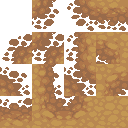
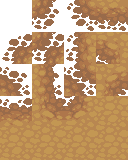
feat(client): Vary LPC ground interiors instead of repeating one cell
An LPC terrain ships several full-coverage interiors — one flat and a few
with scattered detail — and readLpcSheet's first-one-wins dedupe kept only
the first. For Grass that tile is a single RGB value across all 32x32, so
every tile of open field drew the same solid green rect and the world read
as a green screen. The edge art was never the problem; the interior was.

The import now keeps every fill and lays them out past the corner block,
one row per tone and one column per detail. Both counts are readable off
the PNG's dimensions, so the renderer needs no manifest and the layout
survives re-importing a different mapping.

Splitting tone from detail is what earns the two rows: they want different
noise. Tone should hold across a patch, the way the baked variant art
already behaves. Detail must not — a detail cell held across a patch is
its tufts repeating on a 32px lattice, which reads as wallpaper — so
pickTileVariant takes a scale and TILE_DETAIL_SCALE switches it nearly
every tile. Tone and detail also read separate seeds; sharing one would
tie a tile's detail to its shade and collapse the two fields back into one.

Grass maps to Grass + Dark Grass, which is where its tonal range comes
back from. The "no other material baked into the edge" rule that picked
Trans Dirt over Earth doesn't constrain the extra terrains: a fill is an
interior and carries no edge at all.

diff --git a/tools/lpc-import.ts b/tools/lpc-import.ts
@@ -2,10 +2,22 @@
 //
 //   npx tsx tools/lpc-import.ts --src=~/Downloads/LPC_Terrain
 //
-// Emits one 4x4 atlas per mapped tile id into client/public/tiles/lpc/, where
-// cell (mask >> 2, mask & 3) is that material's art for corner mask `mask` —
-// the same masks pickTileLayers produces, so the renderer indexes an atlas the
-// same way it indexes a procedural mask.
+// Emits one atlas per mapped tile id into client/public/tiles/lpc/. The first
+// 4x4 block is the corner set: cell (mask >> 2, mask & 3) is that material's
+// art for corner mask `mask` — the same masks pickTileLayers produces, so the
+// renderer indexes an atlas the same way it indexes a procedural mask.
+//
+// Rows past the fourth are *fills*: alternative full-coverage interiors, one
+// row per tone and one cell per detail within that tone. A terrain ships one
+// flat fill and a few with scattered detail; importing only the first (which
+// for Grass is a single RGB value across all 32x32) is what made an open field
+// read as one solid colour.
+//
+// Splitting tone across rows and detail across columns is what lets the
+// renderer pick them off *different* noise fields — tone wants calm multi-tile
+// patches, detail wants to switch almost every tile or its cell repeats on a
+// visible 32px lattice. Both counts have to be readable from the PNG alone, so
+// they get one dimension each: tones = height - 4, details = width.
 //
 // This is the authored-art half of the seam experiment: the sheet ships 13 of
 // the 16 corner shapes drawn by hand over transparency, which is precisely the
@@ -25,16 +37,22 @@ import { fileURLToPath } from 'node:url';
 import { PNG } from 'pngjs';
 import { blitTile, readLpcSheet, MASK_DIAG_NE_SW, MASK_DIAG_NW_SE, TILE_PX } from './lib/lpc-terrain.ts';
 
-// Our tile id → LPC terrain name. Chosen for the starting village, whose ground
-// is grass/dirt with a little stone. Terrains whose edge art has another
-// material baked into it are avoided: "Earth" is drawn with a grass fringe, so
-// it only composites correctly over grass, while "Trans Dirt" has a generic
-// pebbled edge that works over anything.
-const MAPPING: Record<string, string> = {
-  sand: 'Sand',
-  dirt: 'Trans Dirt',
-  grass: 'Grass',
-  stone_floor: 'Brick Road',
+// Our tile id → LPC terrain names. The first supplies the corner art and the
+// first tone; any others contribute tone rows only, which is how a material
+// gets tonal variation without anyone drawing new art — LPC already ships
+// several tones of the same ground as separate terrains.
+//
+// Chosen for the starting village, whose ground is grass/dirt with a little
+// stone. Terrains whose edge art has another material baked into it are
+// avoided: "Earth" is drawn with a grass fringe, so it only composites
+// correctly over grass, while "Trans Dirt" has a generic pebbled edge that
+// works over anything. That constraint doesn't apply to the extra tones —
+// fills are interiors, and carry no edge at all.
+const MAPPING: Record<string, string[]> = {
+  sand: ['Sand'],
+  dirt: ['Trans Dirt'],
+  grass: ['Grass', 'Dark Grass'],
+  stone_floor: ['Brick Road'],
 };
 
 const __dirname = dirname(fileURLToPath(import.meta.url));
@@ -48,16 +66,31 @@ const src = srcArg.startsWith('~') ? join(homedir(), srcArg.slice(1)) : srcArg;
 const sheet = readLpcSheet(join(src, 'Terrain.tsx'), join(src, 'terrain.png'));
 mkdirSync(OUT_DIR, { recursive: true });
 
-for (const [tileId, terrainName] of Object.entries(MAPPING)) {
-  const terrain = sheet.terrains.find(t => t.name === terrainName);
-  if (!terrain) throw new Error(`no LPC terrain named "${terrainName}"`);
+for (const [tileId, terrainNames] of Object.entries(MAPPING)) {
+  const tones = terrainNames.map(name => {
+    const t = sheet.terrains.find(x => x.name === name);
+    if (!t) throw new Error(`no LPC terrain named "${name}"`);
+    if (t.fills.length === 0) throw new Error(`LPC terrain "${name}" ships no full-coverage fill`);
+    return t;
+  });
+  const terrain = tones[0]!;
 
-  const atlas = new PNG({ width: TILE_PX * 4, height: TILE_PX * 4 });
+  // Every fill row is the same width, so a tone with fewer fills than the
+  // widest repeats its own — the renderer can then index any column of any row
+  // without knowing how many distinct fills that particular tone has.
+  const cols = Math.max(4, ...tones.map(t => t.fills.length));
+  const atlas = new PNG({ width: TILE_PX * cols, height: TILE_PX * (4 + tones.length) });
   atlas.data.fill(0);
   const put = (mask: number, tileIndex: number) =>
     blitTile(sheet, tileIndex, atlas, (mask & 3) * TILE_PX, (mask >> 2) * TILE_PX);
 
   for (const [mask, tileIndex] of terrain.byMask) put(mask, tileIndex);
+
+  tones.forEach((tone, row) => {
+    for (let c = 0; c < cols; c++) {
+      blitTile(sheet, tone.fills[c % tone.fills.length]!, atlas, c * TILE_PX, (4 + row) * TILE_PX);
+    }
+  });
 
   // The two diagonal-only masks: the sheet has no art for a material touching
   // a tile at opposite corners only, so stack the two single-corner tiles.
@@ -72,7 +105,7 @@ for (const [tileId, terrainName] of Object.entries(MAPPING)) {
 
   const out = join(OUT_DIR, `${tileId}.png`);
   writeFileSync(out, PNG.sync.write(atlas));
-  console.log(`${tileId.padEnd(12)} ← ${terrainName.padEnd(12)} ${terrain.byMask.size} authored + 2 assembled → ${out}`);
+  console.log(`${tileId.padEnd(12)} ← ${terrainNames.join(' + ').padEnd(20)} ${terrain.byMask.size} authored + 2 assembled, ${tones.length}×${cols} fills → ${out}`);
 }
 
 const attribution = join(src, 'Attribution.txt');

diff --git a/client/src/game.ts b/client/src/game.ts
@@ -1,7 +1,7 @@
 import { state } from './state.ts';
 import { ARMOR_SLOTS, BLOCKING_TILES, EQUIPMENT_SLOTS, SCALING_COEFFS, ABILITY_SLOTS, UNARMED_ATTACK_ID, WEAPON_ATTACK_ID, PLAYER_BASE_ACT_TICKS, TICK_MS, actTicks, resolveHotbar, xpForNext } from '../../shared/constants.ts';
-import { MASK_FULL, buildSpriteColorMap, buildTileColorMap, makeTileLayerBuffer, pickSeamTile, pickTileLayers, pickTileVariant } from '../../shared/tileset.ts';
-import { getLpcAtlas, getMaskedTile, lpcCell } from './tileBlend.ts';
+import { MASK_FULL, TILE_DETAIL_SCALE, buildSpriteColorMap, buildTileColorMap, makeTileLayerBuffer, pickSeamTile, pickTileLayers, pickTileVariant } from '../../shared/tileset.ts';
+import { getLpcAtlas, getMaskedTile, lpcCell, lpcFillCell, lpcFillCounts } from './tileBlend.ts';
 import { renderAbilityIcon } from '../../shared/abilityIcon.ts';
 import { rarityColor } from '../../shared/itemVisuals.ts';
 import { getPlayerSprite, whenLayerLoads } from './playerSprite.ts';
@@ -3856,13 +3856,32 @@ function drawTile(px: number, py: number, color: string, spriteId?: string | nul
  *  the whole tile — filling a masked layer's rect with colour would paint over
  *  the corners it did *not* win, so a partial layer is skipped instead and the
  *  material below simply shows through until the art loads. */
+/** The atlas rect for a corner-blended tile: the mask's cell, except for a
+ *  full-coverage tile, which picks among the material's interiors. */
+function fillCell(
+  atlas: HTMLImageElement, tile: string, x: number, y: number, mask: number,
+): [number, number, number, number] {
+  const [tones, details] = lpcFillCounts(atlas);
+  if (mask !== MASK_FULL || tones < 1) return lpcCell(mask);
+  // Distinct ids so the two picks read distinct noise: sharing one would tie a
+  // tile's detail to its tone and collapse the two fields back into one.
+  const tone = pickTileVariant(`${tile}~tone`, x, y, tones);
+  const detail = pickTileVariant(`${tile}~detail`, x, y, details, undefined, TILE_DETAIL_SCALE);
+  return lpcFillCell(tone, detail);
+}
+
 function drawTileLayer(
   px: number, py: number, x: number, y: number, ts: Tileset, tile: string, mask: number,
 ): void {
   if (blendMode === 'lpc') {
     const atlas = getLpcAtlas(tile);
     if (atlas) {
-      const [sx, sy, sw, sh] = lpcCell(mask);
+      // A tile's interior is the same art everywhere, so an open field is one
+      // repeated cell unless it varies. Tone and detail come off separate
+      // noise fields at separate scales: a shade of grass should hold for a
+      // patch, while which cell's tufts get drawn should change nearly every
+      // tile or the tufts line up on a 32px grid and read as wallpaper.
+      const [sx, sy, sw, sh] = fillCell(atlas, tile, x, y, mask);
       ctx.drawImage(atlas, sx, sy, sw, sh, px, py, TILE, TILE);
       return;
     }

diff --git a/shared/tileset.ts b/shared/tileset.ts
@@ -30,6 +30,14 @@ const TILE_VARIANT_SALT = 0x7a11e;
 // varies. Bigger = calmer/larger patches; smaller = more frequent switching.
 const TILE_VARIANT_PATCH_SCALE = 8;
 
+// Scale for variants that differ in *detail* rather than in tone — LPC's fill
+// tiles, which are the same green with tufts scattered differently. Patching
+// those is wrong: a patch of one detail tile is that tile's tufts repeating on
+// a 32px lattice, which reads as wallpaper. Near-per-tile switching breaks the
+// alignment up and costs nothing in coherence, because tiles that match in
+// tone have no patch edge to see.
+export const TILE_DETAIL_SCALE = 1.4;
+
 // tileId → derived variant seed. Tile ids are a small fixed vocabulary.
 const variantSeeds = new Map<string, number>();
 
@@ -42,9 +50,13 @@ const variantSeeds = new Map<string, number>();
  *  of noise lands on — e.g. make the busiest/most-distinctive variant rarer
  *  than the calm default — without reintroducing per-tile noise, since it's
  *  just a non-uniform split of the same smooth noise range. Omitted or
- *  mismatched length falls back to a uniform split. */
+ *  mismatched length falls back to a uniform split.
+ *
+ *  `scale` is the feature size of the noise; pass TILE_DETAIL_SCALE for
+ *  variants that differ only in detail. */
 export function pickTileVariant(
   tileId: string, x: number, y: number, variantCount: number, weights?: number[],
+  scale: number = TILE_VARIANT_PATCH_SCALE,
 ): number {
   if (variantCount <= 1) return 0;
   // Memoized: this is called for every visible tile every frame, and hashing
@@ -54,7 +66,7 @@ export function pickTileVariant(
     seed = (TILE_VARIANT_SALT ^ hashString(tileId)) >>> 0;
     variantSeeds.set(tileId, seed);
   }
-  const n = valueNoise(x, y, TILE_VARIANT_PATCH_SCALE, seed); // smooth [0, 1)
+  const n = valueNoise(x, y, scale, seed); // smooth [0, 1)
 
   if (!weights || weights.length !== variantCount) {
     return Math.min(variantCount - 1, Math.floor(n * variantCount));

diff --git a/tools/lib/lpc-terrain.ts b/tools/lib/lpc-terrain.ts
@@ -15,6 +15,7 @@ import { PNG } from 'pngjs';
 export const TILE_PX = 32;
 
 /** Corner bits, matching shared/tileset.ts: NW=1, NE=2, SE=4, SW=8. */
+export const MASK_FULL = 1 | 2 | 4 | 8;
 export const MASK_DIAG_NW_SE = 1 | 4;
 export const MASK_DIAG_NE_SW = 2 | 8;
 
@@ -22,6 +23,12 @@ export interface LpcTerrain {
   name: string;
   /** corner mask → tile index in the sheet (row-major, 32 columns). */
   byMask: Map<number, number>;
+  /** Every full-coverage tile the terrain ships, in sheet order. These are a
+   *  material's *interior* — no edge art — so they are interchangeable, and a
+   *  terrain ships several: one flat and a few with scattered detail. Keeping
+   *  only the first (as byMask does) is what made an open field of grass a
+   *  single repeated colour. */
+  fills: number[];
 }
 
 export interface LpcSheet {
@@ -36,7 +43,7 @@ export function readLpcSheet(tsxPath: string, pngPath: string): LpcSheet {
   const cols = Math.floor(png.width / TILE_PX);
 
   const terrains: LpcTerrain[] = [...xml.matchAll(/<terrain\s+name="([^"]+)"/g)]
-    .map(m => ({ name: m[1]!, byMask: new Map<number, number>() }));
+    .map(m => ({ name: m[1]!, byMask: new Map<number, number>(), fills: [] }));
 
   for (const m of xml.matchAll(/<tile\s+id="(\d+)"\s+terrain="([^"]*)"\s*\/>/g)) {
     const id = Number(m[1]);
@@ -53,6 +60,7 @@ export function readLpcSheet(tsxPath: string, pngPath: string): LpcSheet {
     // First one wins: a few terrains list the same corner shape twice (recolour
     // rows), and taking the earliest keeps a terrain's tiles contiguous.
     if (!terrain.byMask.has(mask)) terrain.byMask.set(mask, id);
+    if (mask === MASK_FULL) terrain.fills.push(id);
   }
   return { png, cols, terrains };
 }

diff --git a/tools/tile-blend-compare.ts b/tools/tile-blend-compare.ts
@@ -20,7 +20,8 @@ import { join, dirname } from 'node:path';
 import { fileURLToPath } from 'node:url';
 import { PNG } from 'pngjs';
 import {
-  MASK_FULL, cornerMaskAlpha, makeTileLayerBuffer, pickSeamTile, pickTileLayers, pickTileVariant,
+  MASK_FULL, TILE_DETAIL_SCALE, cornerMaskAlpha, makeTileLayerBuffer, pickSeamTile, pickTileLayers,
+  pickTileVariant,
 } from '../shared/tileset.ts';
 import { deriveSeeds, wildTileAt } from '../shared/worldgen/field.ts';
 import { BLOCKING_TILES } from '../shared/constants.ts';
@@ -96,8 +97,17 @@ function blit(
   const src = atlas ? null : spriteFor(tile, x, y);
   const png = atlas ?? (src ? art(src) : null);
   const cell = atlas ? 32 : SRC;
-  const cx = atlas ? (mask & 3) * 32 : 0;
-  const cy = atlas ? (mask >> 2) * 32 : 0;
+  // Past the fourth row an LPC atlas carries full-coverage fills — a tone per
+  // row, a detail per column — picked per tile off two noise fields, otherwise
+  // a field of one material is one cell repeated. Mirrors fillCell in game.ts.
+  const tones = atlas && mask === MASK_FULL ? atlas.height / 32 - 4 : 0;
+  const fill = tones > 0;
+  const tone = fill ? pickTileVariant(`${tile}~tone`, x, y, tones) : 0;
+  const detail = fill
+    ? pickTileVariant(`${tile}~detail`, x, y, atlas!.width / 32, undefined, TILE_DETAIL_SCALE)
+    : 0;
+  const cx = atlas ? (fill ? detail : mask & 3) * 32 : 0;
+  const cy = atlas ? (fill ? 4 + tone : mask >> 2) * 32 : 0;
   const flat = png ? null : hexRgb(ts.tiles[tile]?.color ?? '#ff00ff');
   for (let py = 0; py < OUT_TILE; py++) {
     for (let px = 0; px < OUT_TILE; px++) {

diff --git a/shared/tileset.test.ts b/shared/tileset.test.ts
@@ -1,5 +1,7 @@
 import { describe, expect, it } from 'vitest';
-import { MASK_FULL, makeTileLayerBuffer, pickSeamTile, pickTileLayers, pickTileVariant } from './tileset.ts';
+import {
+  MASK_FULL, TILE_DETAIL_SCALE, makeTileLayerBuffer, pickSeamTile, pickTileLayers, pickTileVariant,
+} from './tileset.ts';
 import type { Tileset } from './types.ts';
 
 const ts: Tileset = {
@@ -122,6 +124,21 @@ describe('pickTileVariant', () => {
     for (let x = 0; x < 200; x++) {
       expect(pickTileVariant('sand', x, 6, 3, [1, 0, 1])).not.toBe(1);
     }
+  });
+
+  // The detail scale exists to break up a repeating cell, which it can only do
+  // by switching far more often than the patch scale does — that is the whole
+  // of its job, so assert the relation rather than a switch count.
+  it('switches more often at the detail scale than at the patch default', () => {
+    const runs = (scale?: number) => {
+      let n = 0;
+      for (let x = 1; x < 300; x++) {
+        if (pickTileVariant('grass', x, 4, 4, undefined, scale)
+            !== pickTileVariant('grass', x - 1, 4, 4, undefined, scale)) n++;
+      }
+      return n;
+    };
+    expect(runs(TILE_DETAIL_SCALE)).toBeGreaterThan(runs());
   });
 });
 

diff --git a/client/src/tileBlend.ts b/client/src/tileBlend.ts
@@ -90,3 +90,21 @@ export function getLpcAtlas(tileId: string): HTMLImageElement | null {
 export function lpcCell(mask: number): [number, number, number, number] {
   return [(mask & 3) * LPC_CELL, (mask >> 2) * LPC_CELL, LPC_CELL, LPC_CELL];
 }
+
+/** Source rect of one of a material's full-coverage interiors: `tone` (row)
+ *  is a shade of the material, `detail` (column) is where its scattered bits
+ *  fall. Only meaningful for MASK_FULL — every other mask carries edge art and
+ *  exists once. */
+export function lpcFillCell(
+  tone: number, detail: number,
+): [number, number, number, number] {
+  return [detail * LPC_CELL, (4 + tone) * LPC_CELL, LPC_CELL, LPC_CELL];
+}
+
+/** How many tones and details the atlas carries, read off its two dimensions:
+ *  the corner set is the first four rows and every row past it is a tone, each
+ *  as wide as the material has details. Deriving it from the PNG means no
+ *  manifest to keep in sync with tools/lpc-import.ts. */
+export function lpcFillCounts(atlas: HTMLImageElement): [number, number] {
+  return [atlas.height / LPC_CELL - 4, atlas.width / LPC_CELL];
+}
